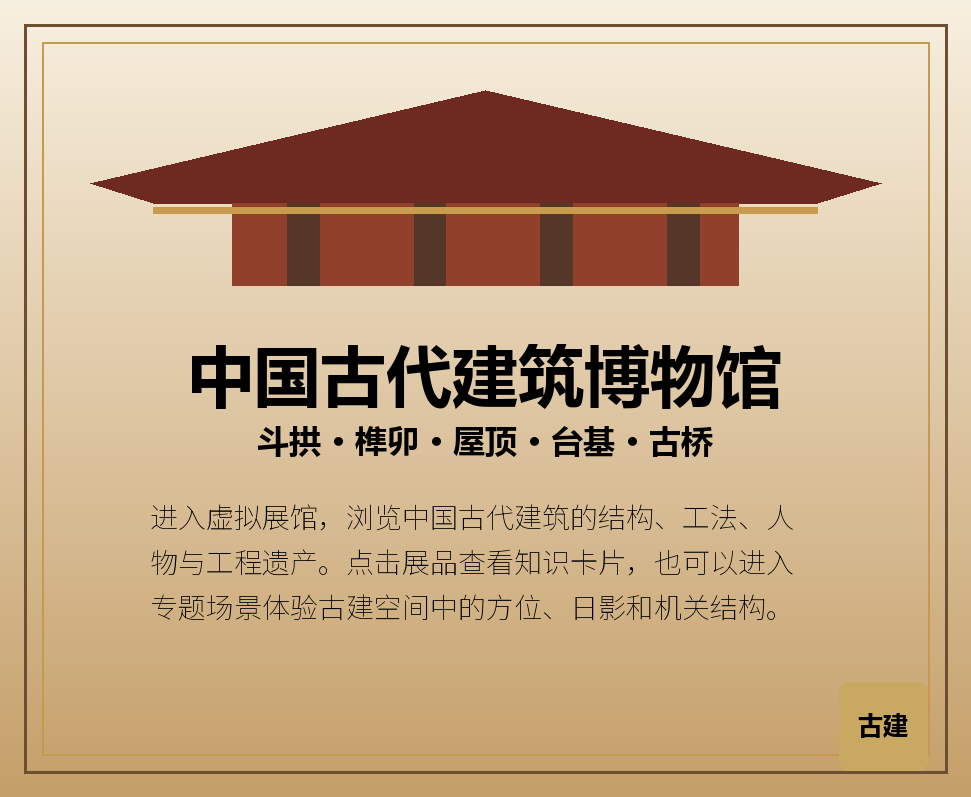
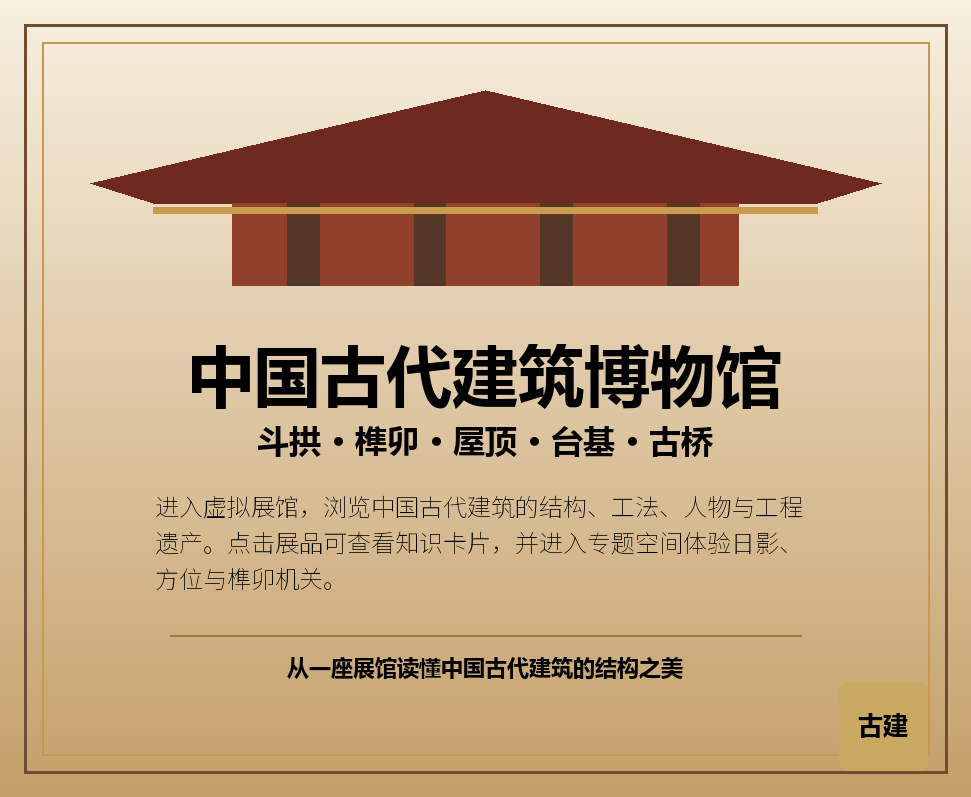
Polish start screen composition

Changed region(s): [[0.1545, 0.6023, 0.8342, 0.7829], [0.2781, 0.813, 0.7106, 0.8733], [0.587, 0.7528, 0.8033, 0.7829]]

diff --git a/tools/generate_architecture_theme_assets.py b/tools/generate_architecture_theme_assets.py
@@ -488,7 +488,9 @@ def draw_start():
     draw_roof(draw, (90, 90, w - 90, 285), fill=(110, 42, 32))
     draw_centered(draw, 330, "中国古代建筑博物馆", font(66, bold=True, serif=True), (0, 0, 0), w)
     draw_centered(draw, 418, "斗拱 · 榫卯 · 屋顶 · 台基 · 古桥", font(32, bold=True), (0, 0, 0), w)
-    draw_wrapped(draw, (150, 500), "进入虚拟展馆，浏览中国古代建筑的结构、工法、人物与工程遗产。点击展品查看知识卡片，也可以进入专题场景体验古建空间中的方位、日影和机关结构。", font(28), (0, 0, 0), w - 300, 10)
+    draw_wrapped(draw, (155, 492), "进入虚拟展馆，浏览中国古代建筑的结构、工法、人物与工程遗产。点击展品可查看知识卡片，并进入专题空间体验日影、方位与榫卯机关。", font(24), (0, 0, 0), w - 310, 6)
+    draw.line((170, 635, w - 170, 635), fill=(160, 121, 71), width=2)
+    draw_centered(draw, 652, "从一座展馆读懂中国古代建筑的结构之美", font(22, bold=True), (0, 0, 0), w)
     chip = (w - 132, h - 115, w - 44, h - 27)
     draw.rounded_rectangle(chip, radius=10, fill=(201, 168, 98))
     draw_centered_in_box(draw, chip, "古建", font(25, bold=True, serif=True), (0, 0, 0))